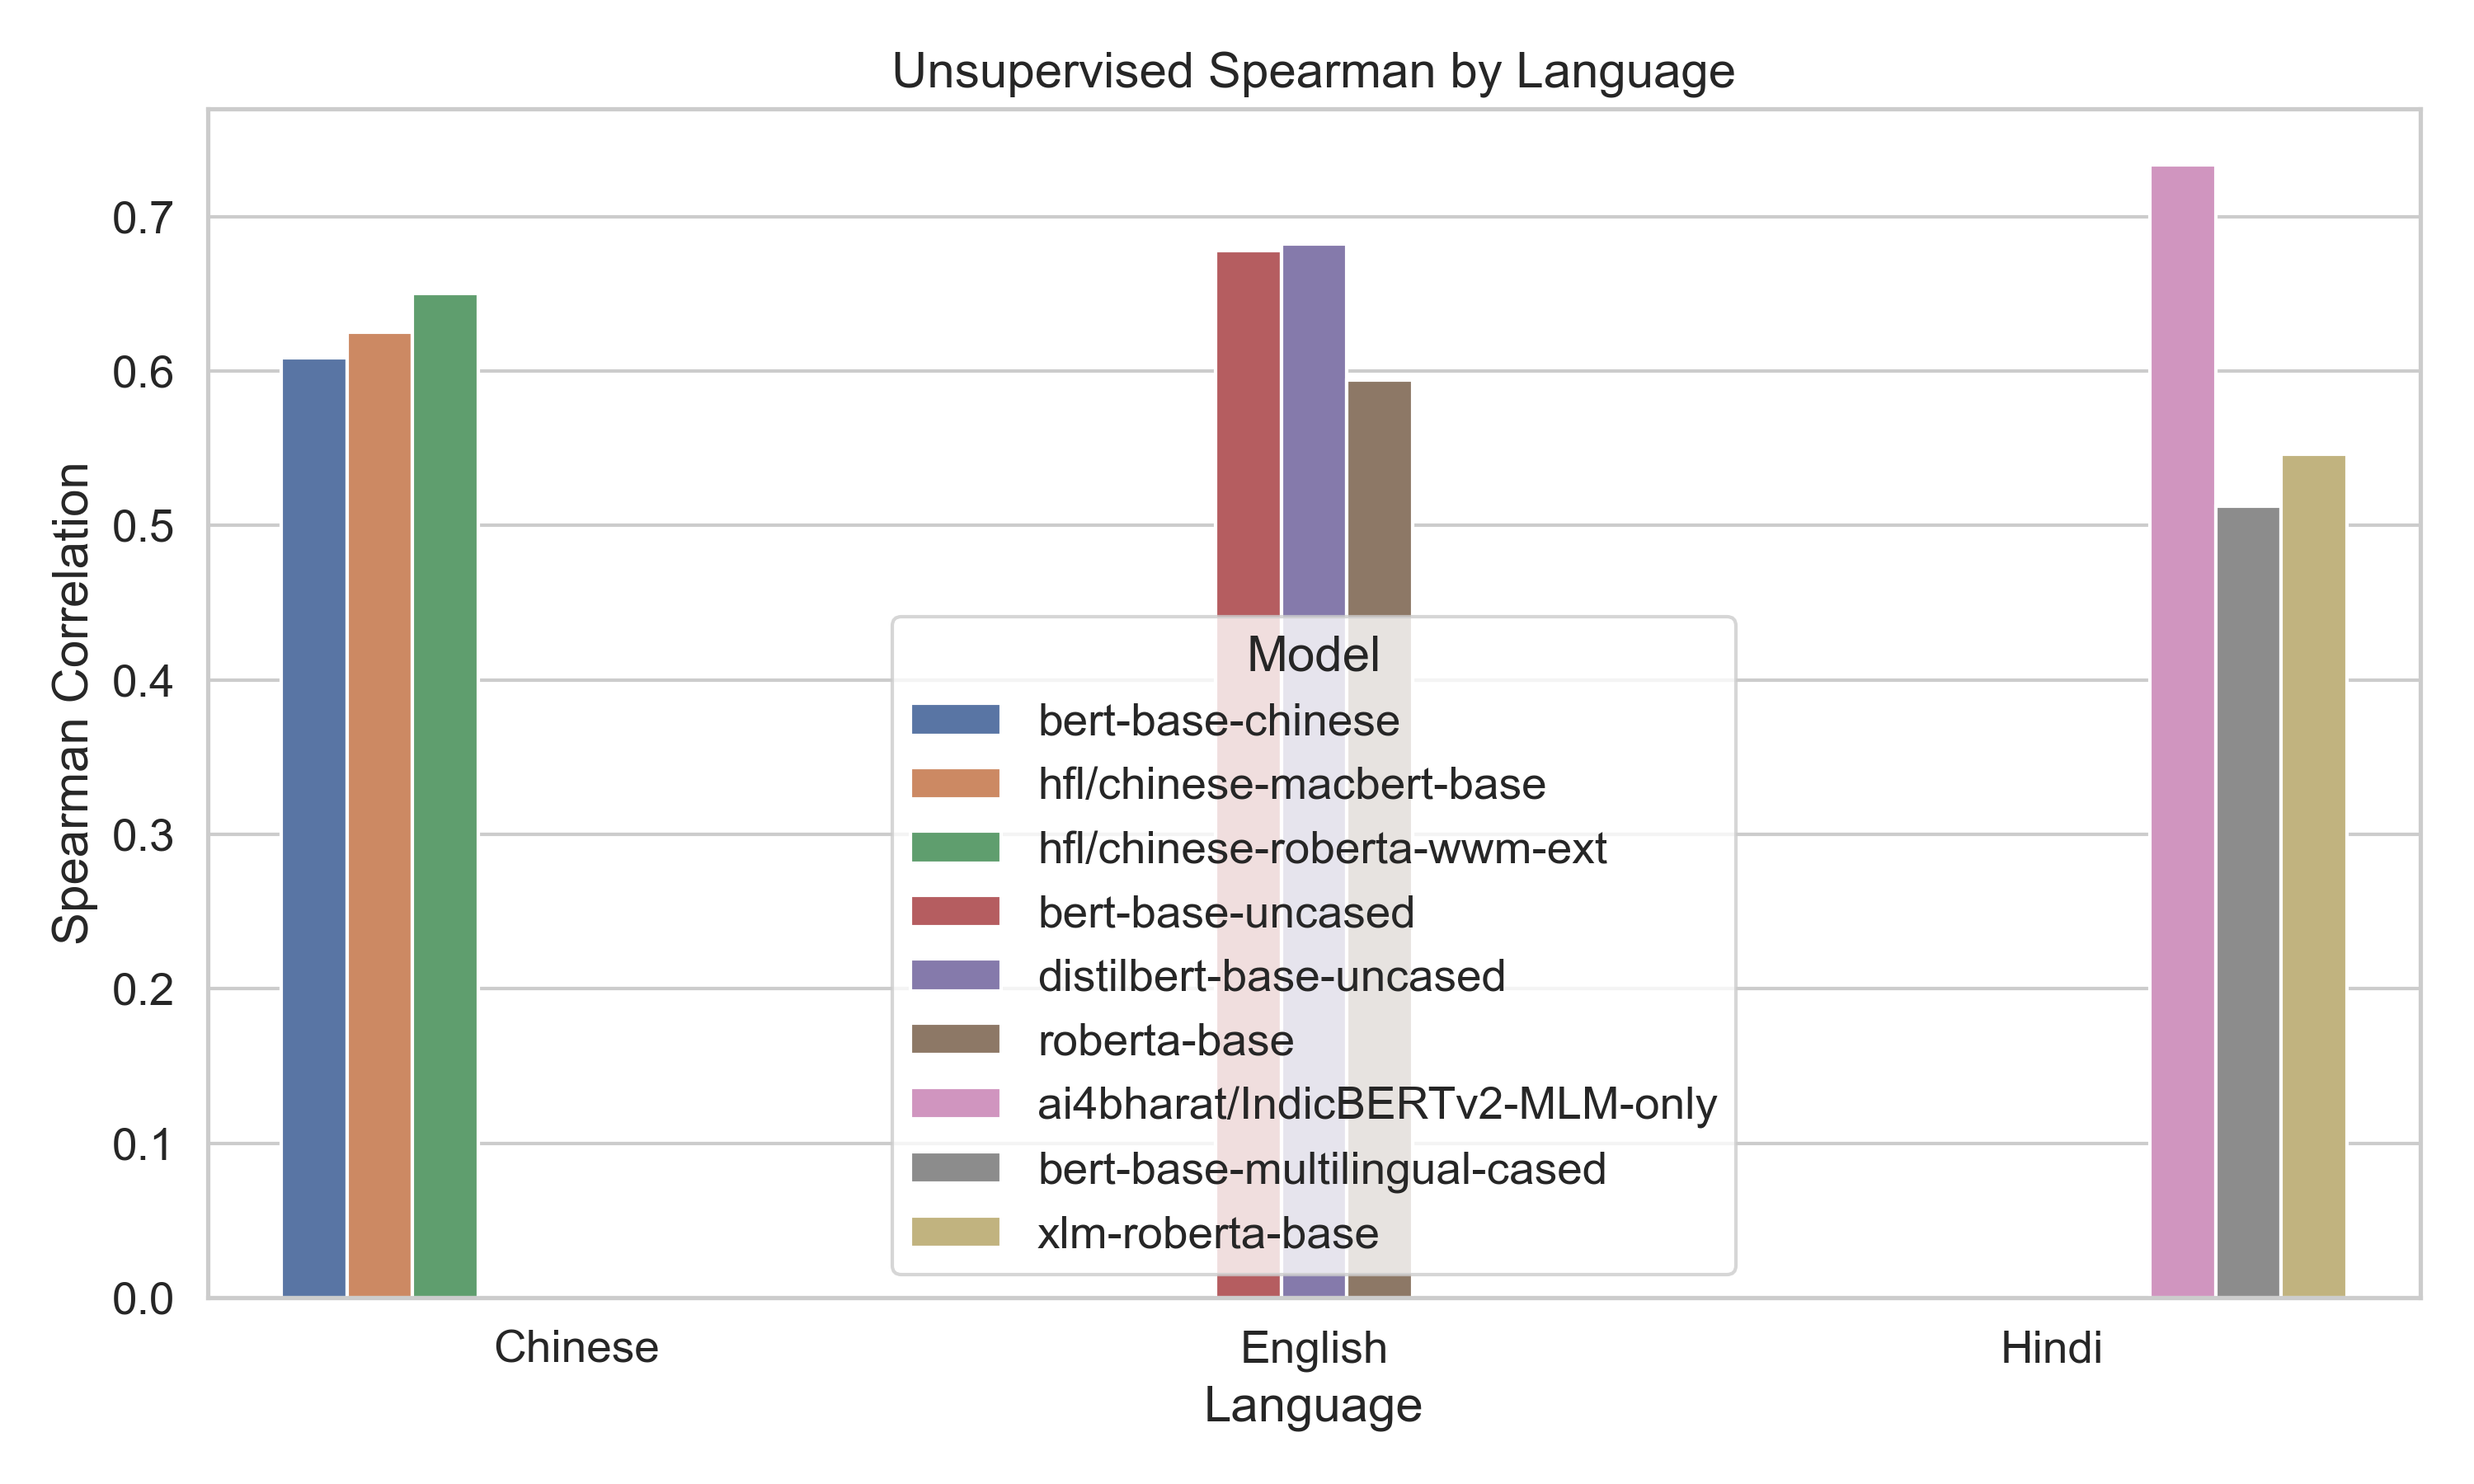
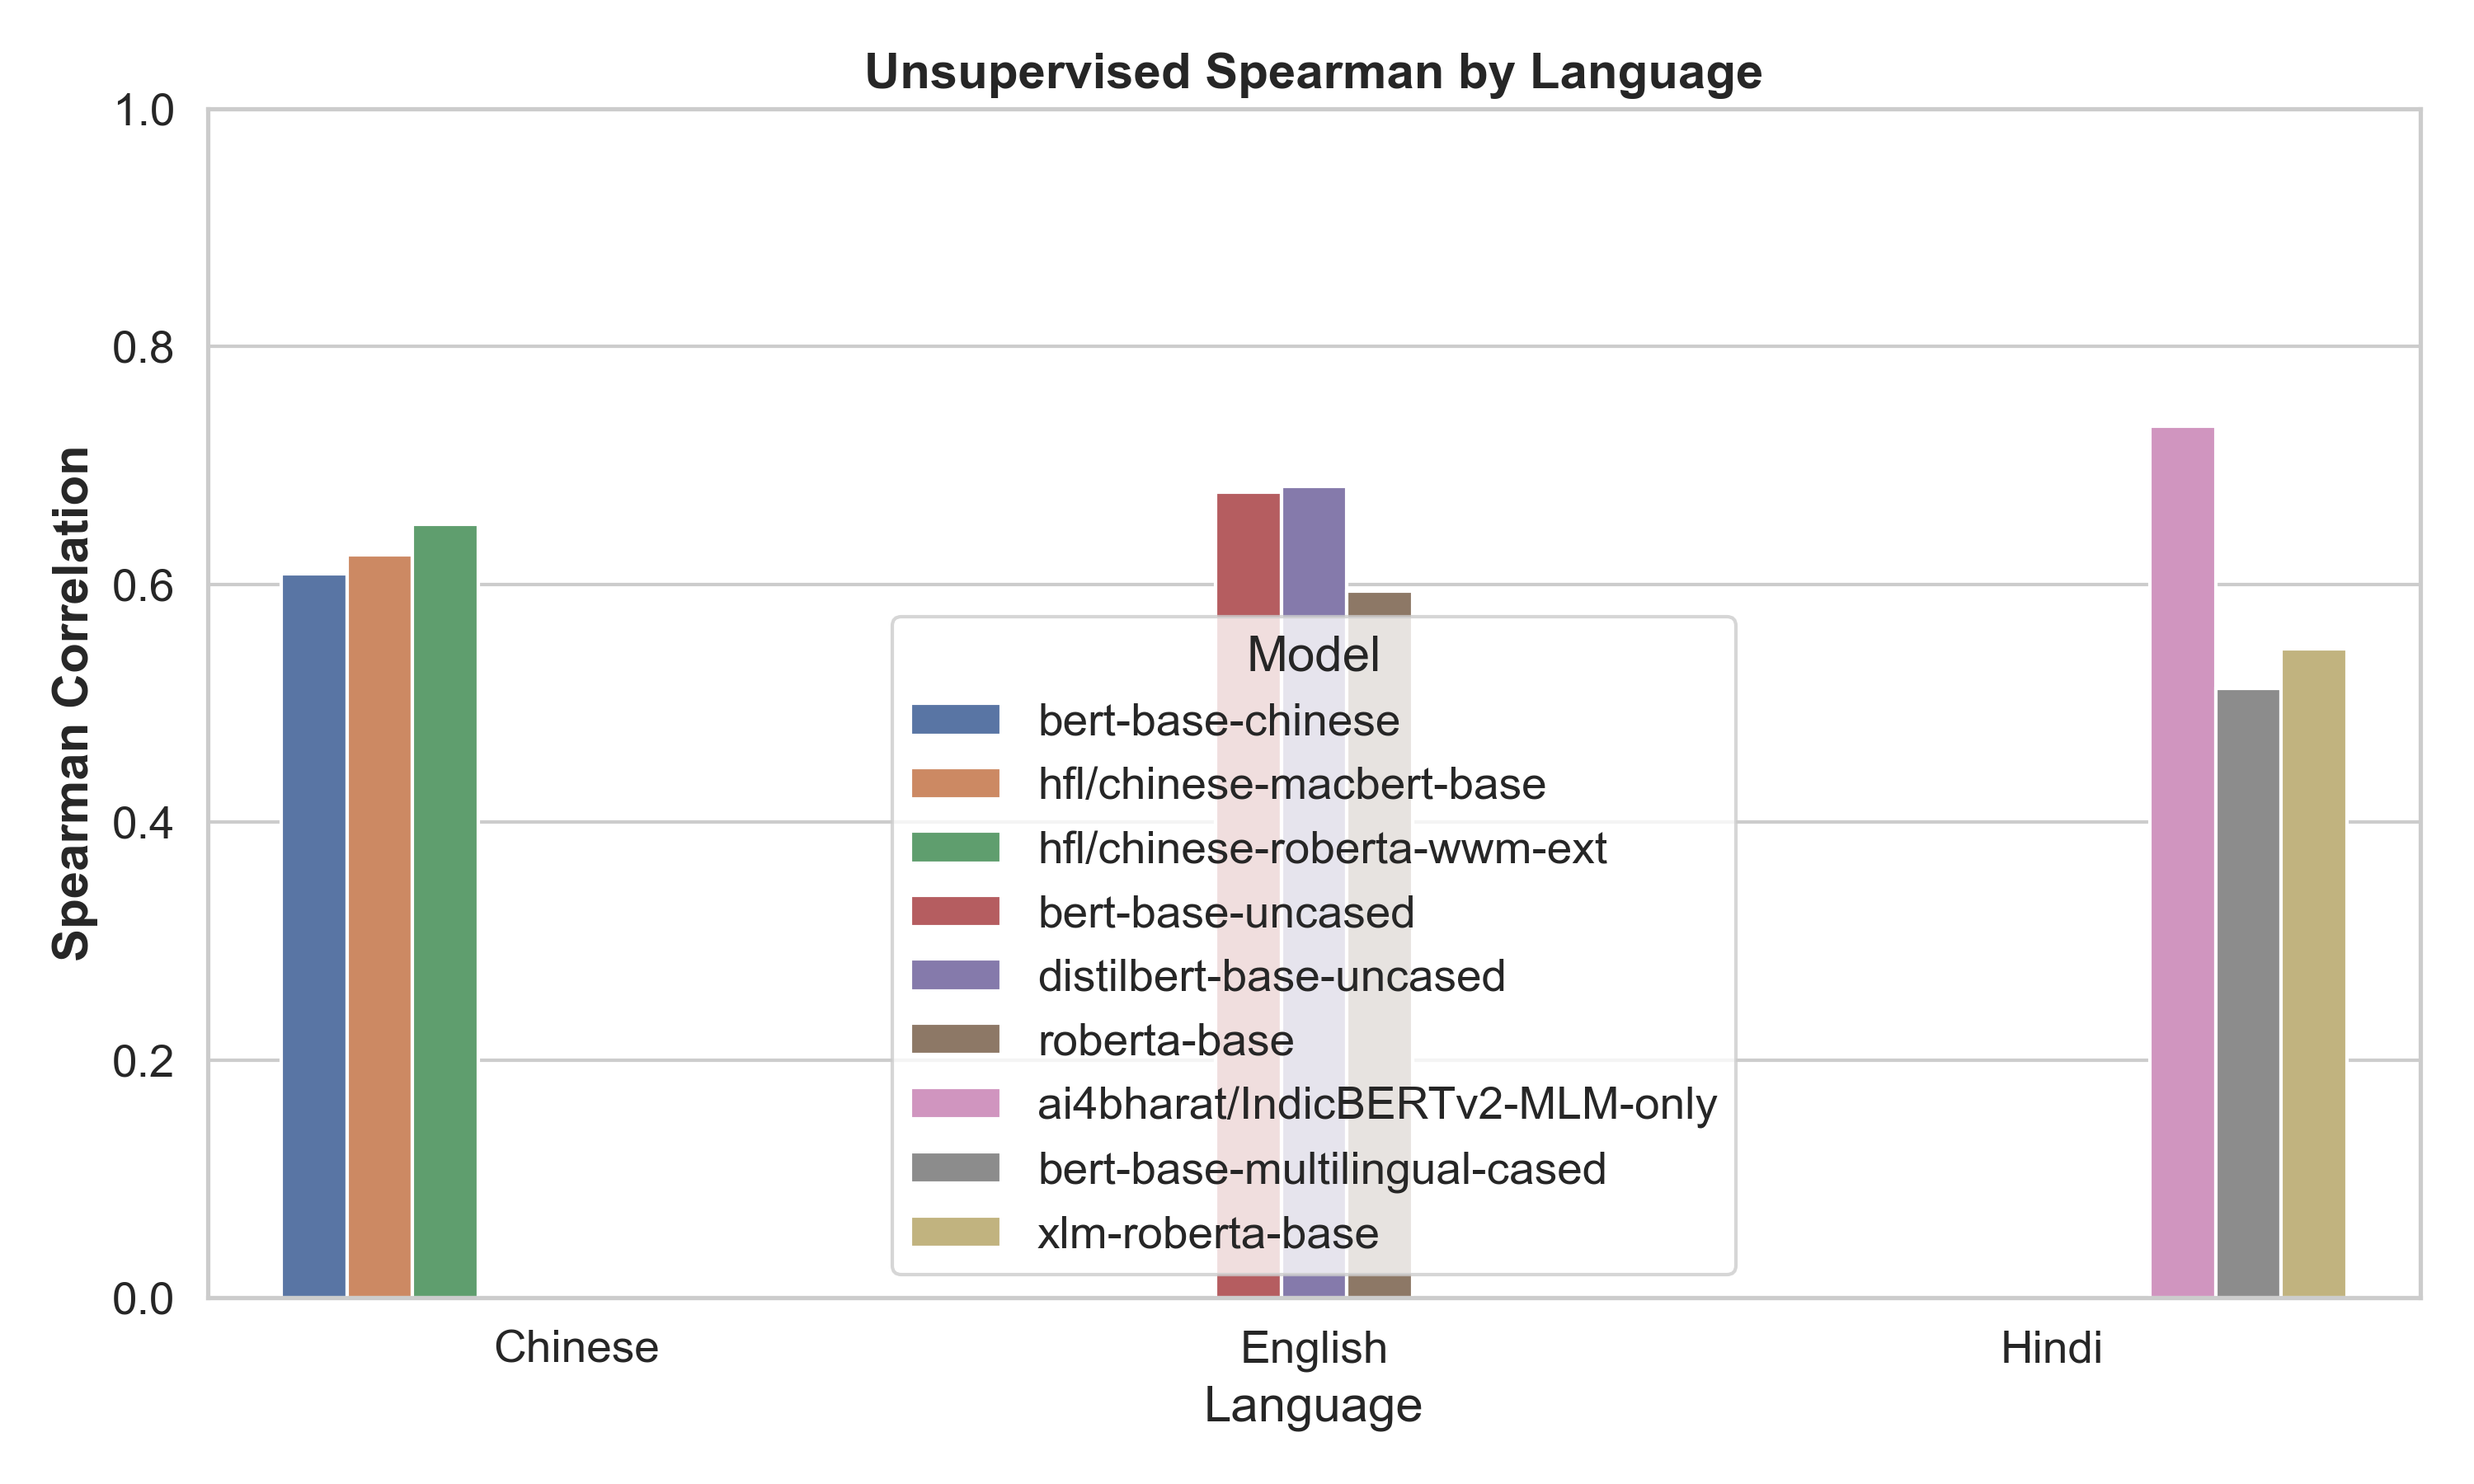
set plot top to 1.0, make labels bold, adjust plot dims

diff --git a/plots/plot.py b/plots/plot.py
@@ -38,9 +38,10 @@ sns.set(style="whitegrid", font_scale=1.2)
 # 1. Supervised Spearman vs Language (Grouped Bar Chart)
 # ==========================================================
 plt.figure(figsize=(10, 6))
+plt.ylim(0, 1.0)
 sns.barplot(data=df, x="Language", y="Supervised", hue="Model")
-plt.title("Supervised Spearman by Language")
-plt.ylabel("Spearman Correlation")
+plt.title("Supervised Spearman by Language", fontweight="bold")
+plt.ylabel("Spearman Correlation", fontweight="bold")
 plt.tight_layout()
 plt.savefig(os.path.join(OUTPUT_DIR, "supervised_by_language.png"), dpi=300)
 plt.close()
@@ -50,9 +51,10 @@ plt.close()
 # 2. Unsupervised Spearman vs Language (Grouped Bar Chart)
 # ==========================================================
 plt.figure(figsize=(10, 6))
+plt.ylim(0, 1.0)
 sns.barplot(data=df, x="Language", y="Unsupervised", hue="Model")
-plt.title("Unsupervised Spearman by Language")
-plt.ylabel("Spearman Correlation")
+plt.title("Unsupervised Spearman by Language", fontweight="bold")
+plt.ylabel("Spearman Correlation", fontweight="bold")
 plt.tight_layout()
 plt.savefig(os.path.join(OUTPUT_DIR, "unsupervised_by_language.png"), dpi=300)
 plt.close()
@@ -68,10 +70,13 @@ df_ch = df[df["Language"] == "Chinese"].melt(
     value_name="Score",
 )
 
-plt.figure(figsize=(10, 6))
+plt.figure(figsize=(6, 6))
+plt.ylim(0, 1.0)
 sns.barplot(data=df_ch, x="Model", y="Score", hue="Setting")
-plt.title("Chinese Models: Supervised vs Unsupervised")
+plt.title("Chinese Models: Supervised vs Unsupervised", fontweight="bold")
 plt.xticks(rotation=20, ha="right")
+plt.ylabel("Score", fontweight="bold")
+plt.xlabel("Model", fontweight="bold")
 plt.tight_layout()
 plt.savefig(os.path.join(OUTPUT_DIR, "chinese_models_sup_unsup.png"), dpi=300)
 plt.close()
@@ -87,10 +92,13 @@ df_en = df[df["Language"] == "English"].melt(
     value_name="Score",
 )
 
-plt.figure(figsize=(10, 6))
+plt.figure(figsize=(6, 6))
+plt.ylim(0, 1.0)
 sns.barplot(data=df_en, x="Model", y="Score", hue="Setting")
-plt.title("English Models: Supervised vs Unsupervised")
+plt.title("English Models: Supervised vs Unsupervised", fontweight="bold")
 plt.xticks(rotation=20, ha="right")
+plt.ylabel("Score", fontweight="bold")
+plt.xlabel("Model", fontweight="bold")
 plt.tight_layout()
 plt.savefig(os.path.join(OUTPUT_DIR, "english_models_sup_unsup.png"), dpi=300)
 plt.close()
@@ -106,10 +114,13 @@ df_hi = df[df["Language"] == "Hindi"].melt(
     value_name="Score",
 )
 
-plt.figure(figsize=(10, 6))
+plt.figure(figsize=(6, 6))
+plt.ylim(0, 1.0)
 sns.barplot(data=df_hi, x="Model", y="Score", hue="Setting")
-plt.title("Hindi Models: Supervised vs Unsupervised")
+plt.title("Hindi Models: Supervised vs Unsupervised", fontweight="bold")
 plt.xticks(rotation=20, ha="right")
+plt.ylabel("Score", fontweight="bold")
+plt.xlabel("Model", fontweight="bold")
 plt.tight_layout()
 plt.savefig(os.path.join(OUTPUT_DIR, "hindi_models_sup_unsup.png"), dpi=300)
 plt.close()
